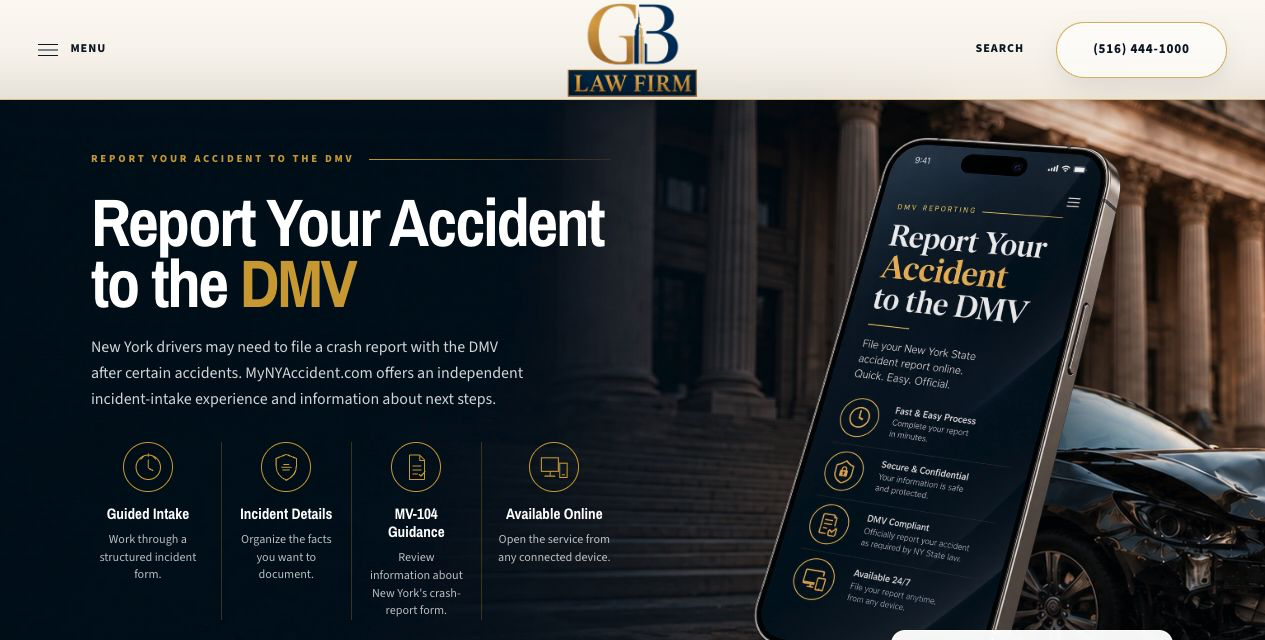
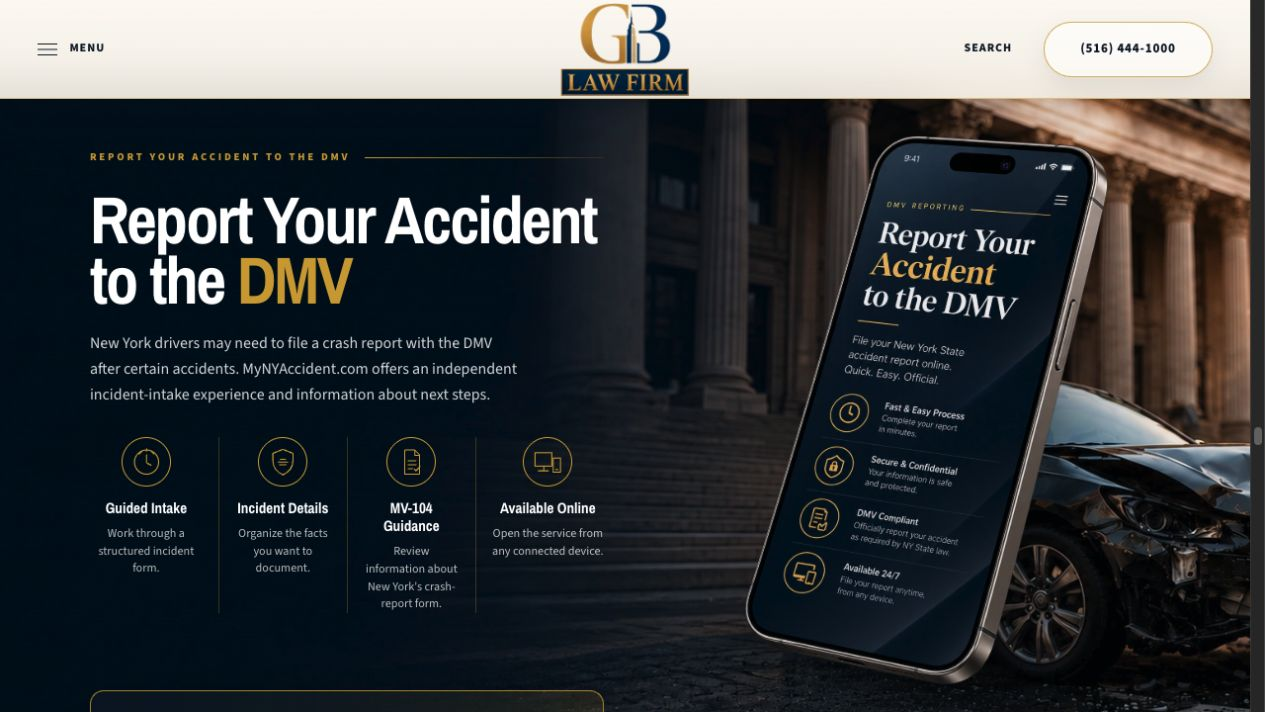
Simplify the DMV report section and drop its card layer
Removes the disclosure card and its supporting CSS (-82), bumps the stylesheet
to dmv-report-card-removal-1, and recompresses both mockups — desktop 724KB to
109KB and mobile 263KB to 38KB.

Verified: homepage contract passes and 57/57 Python tests pass. The
preloader-scope and practice-area contracts still fail on gb/ and the stale
buster pin.

What came out with the card is worth a second look before launch. The removed
aside carried "Independent website", the sentence "Not affiliated with the NYS
DMV or any government agency", and a link to the official filing page at
dmv.ny.gov. None of that survives elsewhere in the section: the words
affiliated, government and official now appear zero times, and the dmv.ny.gov
link is gone.

What remains is a section headed "Report Your Accident to the DMV" that names
the MV-104 crash-report form and sends readers to the commercial third party
mynyaccident.com. The only remaining signal of separation is the adjective in
"offers an independent incident-intake experience". Someone wrote that
disclaimer deliberately, which suggests the affiliation question was already
identified once.

diff --git a/homepage-atlas.css b/homepage-atlas.css
@@ -11984,72 +11984,6 @@
   transform: translateX(0.35rem);
 }
 
-.atlas-home #dmv-report .dmv-report__disclosure {
-  position: absolute;
-  right: clamp(2rem, 7.2vw, 7.6rem);
-  bottom: clamp(2.3rem, 4.8vw, 5rem);
-  z-index: 4;
-  display: grid;
-  grid-template-columns: auto minmax(0, 1fr);
-  gap: 0.9rem;
-  width: min(292px, 22vw);
-  padding: 1rem 1.05rem;
-  border: 1px solid rgba(255, 255, 255, 0.55);
-  border-radius: 14px;
-  color: var(--atlas-navy);
-  background: rgba(255, 255, 255, 0.96);
-  box-shadow: 0 20px 44px rgba(0, 0, 0, 0.24);
-}
-
-.atlas-home #dmv-report .dmv-report__disclosure-icon {
-  display: grid;
-  place-items: center;
-  width: 2.9rem;
-  aspect-ratio: 1;
-  border-radius: 50%;
-  color: var(--atlas-gold);
-  background: var(--atlas-white);
-  box-shadow: 0 7px 18px rgba(10, 22, 40, 0.14);
-}
-
-.atlas-home #dmv-report .dmv-report__disclosure-icon svg {
-  width: 1.75rem;
-  fill: none;
-  stroke: currentColor;
-  stroke-width: 1.8;
-  stroke-linecap: round;
-  stroke-linejoin: round;
-}
-
-.atlas-home #dmv-report .dmv-report__disclosure strong {
-  display: block;
-  margin-bottom: 0.34rem;
-  font-family: "Atlas Display", sans-serif;
-  font-size: 1.05rem;
-  font-weight: 700;
-  line-height: 1.1;
-}
-
-.atlas-home #dmv-report .dmv-report__disclosure p {
-  margin: 0;
-  color: #26384a;
-  font-size: 0.78rem;
-  line-height: 1.42;
-}
-
-.atlas-home #dmv-report .dmv-report__disclosure a {
-  display: inline-block;
-  min-height: 44px;
-  margin-top: 0.55rem;
-  padding-top: 0.35rem;
-  color: #5e4a0e;
-  font-size: 0.74rem;
-  font-weight: 800;
-  line-height: 1.25;
-  text-decoration: underline;
-  text-underline-offset: 0.18em;
-}
-
 .atlas-home #dmv-report .dmv-report__close {
   position: absolute;
   right: 0;
@@ -12145,10 +12079,6 @@
     margin-top: 0.2rem;
   }
 
-  .atlas-home #dmv-report .dmv-report__disclosure {
-    right: 2rem;
-    width: min(260px, 25vw);
-  }
 }
 
 @media (max-width: 760px) {
@@ -12280,18 +12210,6 @@
 
   .atlas-home #dmv-report .dmv-report__action strong {
     font-size: clamp(1.45rem, 7.5vw, 1.85rem);
-  }
-
-  .atlas-home #dmv-report .dmv-report__disclosure {
-    position: static;
-    width: 100%;
-    margin: 1.4rem 0 0;
-    padding: 1rem;
-    border-radius: 12px;
-  }
-
-  .atlas-home #dmv-report .dmv-report__disclosure p {
-    font-size: 0.82rem;
   }
 
   .atlas-home #dmv-report .dmv-report__close {

diff --git a/index.html b/index.html
@@ -17,7 +17,7 @@
 <!-- DESIGN.md v6 §2/§3 design-system layer. Homepage only; loaded after
      styles.css so the new components win where names would ever collide. -->
 <link rel="stylesheet" href="design-system.css?v=practice-five-1" />
-<link rel="stylesheet" href="homepage-atlas.css?v=dmv-report-layers-1" />
+<link rel="stylesheet" href="homepage-atlas.css?v=dmv-report-card-removal-1" />
 <script>document.documentElement.className += ' ds-js';</script>
 <!-- ===== SEO / GEO: generated by seo_build.py — edit there, not here ===== -->
 <meta property="og:type" content="website" />
@@ -1302,16 +1302,6 @@ FINISH: unreviewed and undocumented is unfinished; this build ends with the fini
         </a>
       </div>
 
-      <aside class="dmv-report__disclosure" aria-label="External website disclosure">
-        <span class="dmv-report__disclosure-icon" aria-hidden="true">
-          <svg viewBox="0 0 48 48"><path d="M24 5 39 11v11c0 10-6 17-15 21C15 39 9 32 9 22V11Z" /><path d="M17 24h14M24 17v14" /></svg>
-        </span>
-        <div>
-          <strong>Independent website</strong>
-          <p>Not affiliated with the NYS DMV or any government agency.</p>
-          <a href="https://dmv.ny.gov/records/file-a-motorist-crash-accident-report" target="_blank" rel="noopener external">View official NY DMV filing information</a>
-        </div>
-      </aside>
     </div>
 
     <div class="dmv-report__close">

diff --git a/tests/test_homepage_dmv_report_section.py b/tests/test_homepage_dmv_report_section.py
@@ -38,22 +38,18 @@ class HomepageDmvReportSectionTests(unittest.TestCase):
         self.assertNotIn("mynyaccident.com", first48.lower())
         self.assertNotIn("ds-sequence-section__foot", first48)
 
-    def test_section_has_safe_external_links_and_clear_disclosure(self):
+    def test_section_keeps_primary_link_and_omits_disclosure_card(self):
         report = section("dmv-report")
         self.assertRegex(
             report,
             r'<a[^>]+href="https://mynyaccident\.com/"[^>]+'
             r'target="_blank"[^>]+rel="[^"]*noopener[^"]*"',
         )
-        self.assertRegex(
-            report,
-            r'<a[^>]+href="https://dmv\.ny\.gov/records/'
-            r'file-a-motorist-crash-accident-report"[^>]+target="_blank"',
-        )
-        self.assertIn(
-            "Not affiliated with the NYS DMV or any government agency.",
-            report,
-        )
+        self.assertNotIn("dmv-report__disclosure", report)
+        self.assertNotIn("Independent website", report)
+        self.assertNotIn("Not affiliated with the NYS DMV", report)
+        self.assertNotIn("dmv.ny.gov/records/", report)
+        self.assertNotIn(".dmv-report__disclosure", CSS)
 
     def test_section_uses_separate_background_and_phone_layers(self):
         report = section("dmv-report")

diff --git a/docs/superpowers/specs/2026-08-13-homepage-dmv-report-section-design.md b/docs/superpowers/specs/2026-08-13-homepage-dmv-report-section-design.md
@@ -27,7 +27,7 @@ Use two client-supplied decorative layers:
 - `assets/report-onlybg.webp` (`1774 × 887`) supplies the courthouse, damaged car, light, and navy copy field;
 - `assets/report-phone.webp` (`1024 × 1536`, transparent) supplies the complete phone mockup.
 
-Keep both images as separate `<img>` elements inside one decorative media wrapper. The background covers the wrapper while the phone remains an independently positioned, fully visible `object-fit: contain` layer. The section's meaningful heading, benefits, CTA, and disclosure remain semantic HTML.
+Keep both images as separate `<img>` elements inside one decorative media wrapper. The background covers the wrapper while the phone remains an independently positioned, fully visible `object-fit: contain` layer. The section's meaningful heading, benefits, and CTA remain semantic HTML.
 
 ## Perspective-settle motion
 
@@ -49,24 +49,22 @@ Use accurate interface copy:
 - introduction explaining that New York drivers may need to file after certain crashes and that MyNYAccident.com is an independent incident-intake resource;
 - benefits: `Guided Intake`, `Private Submission`, `MV-104 Guidance`, and `Available Online`, each with restrained descriptive copy;
 - action: `Start your accident intake at MyNYAccident.com`;
-- disclosure title: `Independent website`, followed by `Not affiliated with the NYS DMV or any government agency.`;
-- official-resource link: `View official NY DMV filing information`;
 - closing line: `Get organized. Document what happened. Review the filing requirements.`
 
-The main action opens `https://mynyaccident.com/` in a new tab with safe external-link attributes. The official information link opens the NY DMV filing-information page in a new tab.
+The main action opens `https://mynyaccident.com/` in a new tab with safe external-link attributes. Per the client revision, the separate disclosure card and official DMV information link are omitted.
 
 ## Responsive and accessible behavior
 
 - Desktop uses an approximately 48/52 content-to-media split. The phone sits fully inside the right field above the background, while the four benefits remain in one row.
 - Tablet keeps the split, scales the phone with `clamp()`, and allows benefits to wrap two-by-two without cropping the phone.
-- At phone width, the decorative media wrapper becomes the first item inside the section. The centered phone appears over a bounded background scene, followed by the eyebrow, heading, introduction, benefits, CTA, disclosure, and closing band.
+- At phone width, the decorative media wrapper becomes the first item inside the section. The centered phone appears over a bounded background scene, followed by the eyebrow, heading, introduction, benefits, CTA, and closing band.
 - Body text stays at least 16px, links and controls provide at least 44px touch targets, focus is visible, and no content is hidden behind the sticky call bar.
 - Both image layers are decorative; the section's meaning remains in HTML.
 
 ## Verification
 
-- Source contract covers unique section ID, placement, external links, disclosure, approved fonts, both supplied image layers, mobile media-first order, perspective-settle hook, reduced-motion behavior, and absence of a live phone-screen overlay.
+- Source contract covers unique section ID, placement, the primary external link, absence of the removed disclosure card, approved fonts, both supplied image layers, mobile media-first order, perspective-settle hook, reduced-motion behavior, and absence of a live phone-screen overlay.
 - Existing homepage contract and full unit suite remain green.
-- Desktop and 375px computed geometry confirm no page overflow, no section clipping, a fully visible phone layer, sensible content/media placement, and visible action/disclosure content.
+- Desktop and 375px computed geometry confirm no page overflow, no section clipping, a fully visible phone layer, sensible content/media placement, and a visible primary action.
 - Paired screenshots are reviewed at desktop and phone width, with at most one batched correction pass.
 - The homepage hero, footer, sticky call bar, forms, SEO/schema, analytics, and all other pages remain unchanged.

diff --git a/docs/superpowers/plans/2026-08-13-homepage-dmv-report-section.md b/docs/superpowers/plans/2026-08-13-homepage-dmv-report-section.md
@@ -19,7 +19,7 @@
 
 - [ ] **Step 1: Write a source-level regression test**
 
-Create tests that require one `#dmv-report` section between `#first48` and `#premises`, the MyNYAccident.com and official DMV external links, the non-affiliation disclosure, the supplied asset path and dimensions, no live phone-screen overlay, Atlas Display/Text ownership, and a 760px responsive composition.
+Create tests that require one `#dmv-report` section between `#first48` and `#premises`, the safe MyNYAccident.com external link, absence of the removed disclosure card, the supplied asset path and dimensions, no live phone-screen overlay, Atlas Display/Text ownership, and a 760px responsive composition.
 
 - [ ] **Step 2: Run the focused test and verify RED**
 
@@ -53,7 +53,7 @@ Remove only `.ds-sequence-section__foot` from `#first48`. Insert `#dmv-report` i
 
 - [ ] **Step 2: Build the approved content hierarchy**
 
-Add the heading, introduction, four icon-led benefits, bordered MyNYAccident.com action, accurate disclosure, official DMV information link, decorative background image, and bottom closing band. Use authored inline SVG with `aria-hidden="true"`; keep content in semantic headings, paragraphs, lists, and anchors.
+Add the heading, introduction, four icon-led benefits, bordered MyNYAccident.com action, decorative background image, and bottom closing band. Use authored inline SVG with `aria-hidden="true"`; keep content in semantic headings, paragraphs, lists, and anchors.
 
 - [ ] **Step 3: Run the focused test**
 
@@ -69,7 +69,7 @@ Expected: placement and HTML assertions pass; CSS assertions still fail.
 
 - [ ] **Step 1: Add desktop composition rules**
 
-Scope all rules beneath `.atlas-home #dmv-report`. Use `Atlas Display` for headings and `Atlas Text` elsewhere; implement the navy field, gold rules, 48/52 split that clears the baked phone, four benefit columns, image treatment, bordered CTA panel, disclosure block, and bottom band.
+Scope all rules beneath `.atlas-home #dmv-report`. Use `Atlas Display` for headings and `Atlas Text` elsewhere; implement the navy field, gold rules, 48/52 split that clears the phone layer, four benefit columns, image treatment, bordered CTA panel, and bottom band.
 
 - [ ] **Step 2: Add tablet and phone rules**
 
@@ -105,7 +105,7 @@ Expected: no new unexplained high-severity findings in the changed section.
 
 - [ ] **Step 2: Run desktop and phone geometry checks**
 
-At 1440px and 375px, confirm `scrollWidth <= clientWidth`, the section and its inner grid do not clip, all four benefits are visible, the CTA and disclosure are visible, and the desktop/mobile image placement preserves the car and phone focal points.
+At 1440px and 375px, confirm `scrollWidth <= clientWidth`, the section and its inner grid do not clip, all four benefits and the CTA are visible, the disclosure card is absent, and the desktop/mobile image placement preserves the car and phone focal points.
 
 - [ ] **Step 3: Capture paired screenshots**
 
@@ -189,7 +189,7 @@ Expected: zero failures, homepage contract pass, and no whitespace errors.
 
 - [ ] **Step 2: Run paired computed-geometry checks**
 
-At desktop and 375px, confirm no horizontal overflow; the phone's rendered bounds stay inside `.dmv-report__visual`; all four benefits, CTA, disclosure, and closing band remain present; and no content overlaps the phone.
+At desktop and 375px, confirm no horizontal overflow; the phone's rendered bounds stay inside `.dmv-report__visual`; all four benefits, CTA, and closing band remain present; the removed disclosure card remains absent; and no content overlaps the phone.
 
 - [ ] **Step 3: Verify animation and fallback**
 
